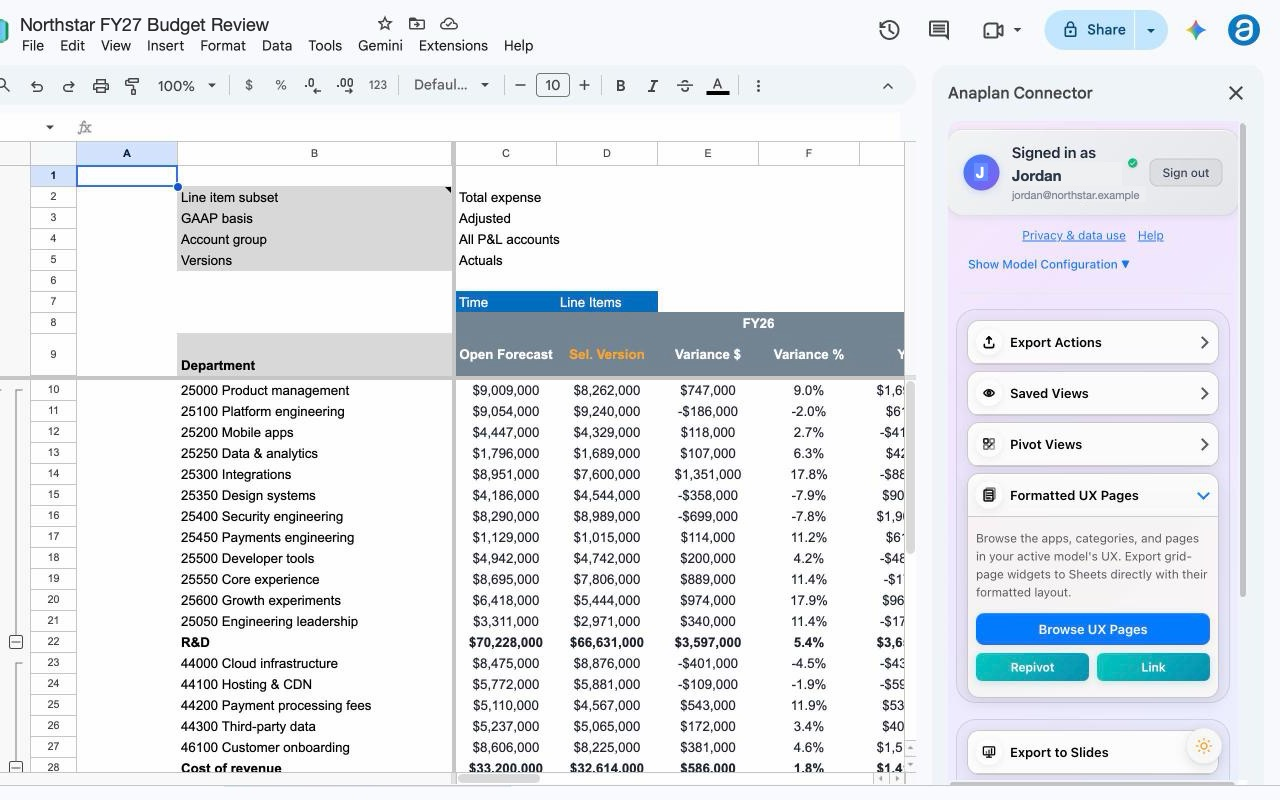
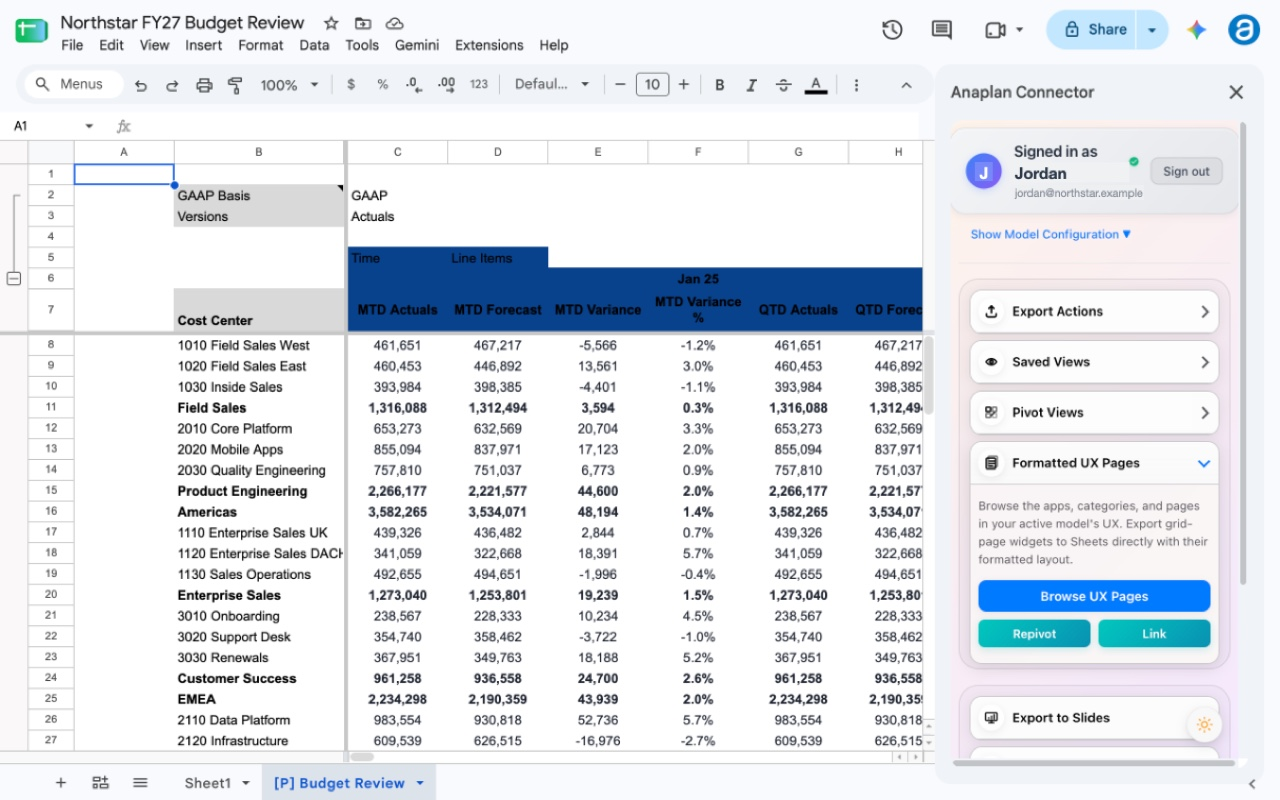
Recapture the hero and the Show / Hide frame from the fictional Northstar model
The home-page hero (01) and the Show / Hide column combinations frame (11)
now come from the Northstar capture model on the production add-on, like
frames 07-10. No frame on the home page or the guide carries a retouched
Anaplan name or figure any more.

- 11: the Show / Hide data preview loaded on a retry; two FY25 occurrences
  hidden, 355 of 357 combinations shown; same crop and title rewrite as 07-10.
- 01: the window's left part (grid) joined to its right part (sidebar and
  title-bar icons) with the empty band between them removed; the signed-in
  card relabelled with the fictional user.
- Alt texts updated (cost-center rows, 357 combinations); capture notes added
  to docs/ux-pivot-window-20261101.md (Addendum 2).

OCR of both finals: 0 real-term hits. npm test: 214/214.

Agent: claude-fable-5-1
Agent-Harness: Claude Code desktop
Agent-Machine: Ryans-MacBook-Pro

diff --git a/index.html b/index.html
@@ -226,7 +226,7 @@
       <figure class="home-product-preview">
         <a class="product-preview-link" href="/demo/budget-review.html" aria-label="Try the interactive budget review shown in this preview">
           <div class="product-preview-flow"><span>Anaplan UX page</span><span aria-hidden="true">→</span><span>Formatted Google Sheets report</span></div>
-          <img class="product-preview-image" src="/assets/product/01-formatted-grid.jpg" width="1280" height="800" fetchpriority="high" decoding="async" alt="aPlan4Sheets sidebar open in Google Sheets beside a formatted budget review exported from an Anaplan UX page, with fictional department figures.">
+          <img class="product-preview-image" src="/assets/product/01-formatted-grid.jpg" width="1280" height="800" fetchpriority="high" decoding="async" alt="aPlan4Sheets sidebar open in Google Sheets beside a formatted budget review exported from an Anaplan UX page, with fictional cost-center figures.">
           <div class="product-preview-caption"><div><strong>From planning data to a budget review</strong><small>Select your data. Build the report. Refresh when plans change.</small></div><span class="product-preview-cta">Try the interactive demo <span aria-hidden="true">→</span></span></div>
         </a>
         <figcaption>Product screenshot · Fictional model and figures · The demo is an interactive simulation, no sign-in, about 2 minutes<br><a href="/demo/formatted-ux.html">Explore the UX page to Sheet walkthrough →</a></figcaption>
@@ -257,7 +257,7 @@
         </li>
         <li class="ux-step fade-in">
           <figure>
-            <img src="/assets/product/01-formatted-grid.jpg" width="1280" height="800" loading="lazy" decoding="async" alt="Formatted budget review written to Google Sheets beside the connector sidebar, with frozen headers, grouped department rows and page selectors, using fictional figures">
+            <img src="/assets/product/01-formatted-grid.jpg" width="1280" height="800" loading="lazy" decoding="async" alt="Formatted budget review written to Google Sheets beside the connector sidebar, with frozen headers, grouped cost-center rows and page selectors, using fictional figures">
             <figcaption><span class="ux-step-number">3</span><strong>Create Pivot</strong><span>A formatted sheet with frozen headers, rows grouped by hierarchy, the page selectors and a last-updated stamp.</span></figcaption>
           </figure>
         </li>
@@ -310,7 +310,7 @@
       </div>
       <div class="pw-feature fade-in">
         <figure class="pw-shot">
-          <img src="/assets/product/11-show-hide-combinations.jpg" width="1280" height="800" loading="lazy" decoding="async" alt="Show / Hide column combinations editor: a preview of the nested Time and Line Items columns with fictional values, two occurrences hidden, and a searchable list of the twelve combinations with Show all, Hide all and Apply Show / Hide">
+          <img src="/assets/product/11-show-hide-combinations.jpg" width="1280" height="800" loading="lazy" decoding="async" alt="Show / Hide column combinations editor: a preview of the nested Time and Line Items columns with fictional values, two occurrences hidden, and a searchable list of the 357 combinations (355 shown) with Show all, Hide all and Apply Show / Hide">
         </figure>
         <div class="pw-copy">
           <h3>Show or hide exact nested occurrences</h3>

diff --git a/docs/ux-pivot-window-20261101.md b/docs/ux-pivot-window-20261101.md
@@ -72,6 +72,22 @@ Level 2 › Cost Center, 28 items), Time and Line Items on columns, GAAP Basis a
 page selectors. The only edits are cosmetic: on all four frames the workbook title, clipped by the 1.6 crop,
 was rewritten and the title-bar icons shifted right of it; on `07` the unrelated app row above
 the Northstar app was relabelled, the clipped sliver of the sidebar's account card at the right
-edge was filled, and the mouse cursor was removed from the grid preview. The Show / Hide frame (`11`) keeps its earlier capture because the data
-preview could not be queried on that model's workspace (the Extensions query returns 401 for a
-non-SSO session there). OCR of the served JPGs: 0 real-term hits.
+edge was filled, and the mouse cursor was removed from the grid preview. OCR of the served JPGs: 0 real-term hits.
+
+## Addendum 2 — hero and Show / Hide recaptured from Northstar (same day)
+
+`01` (the hero) and `11` (Show / Hide) now come from the Northstar model as well, so no frame on
+the home page or the guide carries a retouched Anaplan name or figure any more.
+
+- `11`: the Show / Hide data preview loaded on a retry (the earlier 401 from the Extensions
+  query cleared on its own once the workspace's SSO exception had propagated). The frame shows the
+  Budget Review grid with Cost Center on rows, Time and Line Items nested on columns, two FY25
+  occurrences hidden (MTD Variance % and QTD Actuals), 355 of 357 combinations shown. Same crop and
+  title rewrite as `07`–`10`.
+- `01`: captured in the same browser window, which could not be resized to a 1.6 frame, so the
+  image is the window's left part (row headers, the Cost Center labels and columns C–H) joined to
+  its right part (the grid scrollbar, the sidebar and the title-bar icons) with the empty band between
+  them removed; nothing inside either part was moved. The signed-in card was relabelled with the
+  fictional user (Jordan, jordan@northstar.example, avatar letter J), the only retouch on the frame.
+
+OCR of both finals: 0 real-term hits, "Northstar" and "Jordan" present.

diff --git a/docs/product-screenshots-20261031.md b/docs/product-screenshots-20261031.md
@@ -54,3 +54,7 @@ repository with the owner (`outputs/product-screenshots-2026-10-31/`).
 
 - `npm test`: 214/214; `git diff --check` clean.
 - Home page rendered locally with headless Chrome and checked at 1280 px.
+
+Update 2026-11-01: `assets/product/01-formatted-grid.jpg` was replaced by a capture from the fictional
+Northstar model (see `ux-pivot-window-20261101.md`, Addendum 2). `og-image-v2.png` still derives from the
+earlier hero.
